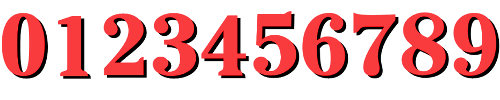
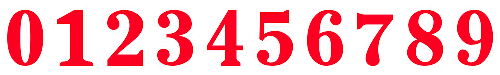
ダメージ文字差し替え。回復文字を追加
Conflicts:
	VOXCHRONICLE/Classes/Lua/LuaBind.cpp
	VOXCHRONICLE/Classes/Scene/MainScene.cpp
	VOXCHRONICLE/Classes/includes/LuaBind.h
	VOXCHRONICLE/Resources/ios/Info.plist

diff --git a/VOXCHRONICLE/Classes/Scene/MainScene.cpp b/VOXCHRONICLE/Classes/Scene/MainScene.cpp
@@ -47,10 +47,10 @@ typedef enum {
   MainSceneZOrderStatus,
   MainSceneZOrderController,
   MainSceneZOrderFocus,
-  MainSceneZOrderDamageLabel,
-  MainSceneZOrderEffect,
-  MainSceneZOrderCutIn,
   MainSceneZOrderMessageWindow,
+  MainSceneZOrderEffect,
+  MainSceneZOrderDamageLabel,
+  MainSceneZOrderCutIn,
   MainSceneZOrderUI
 } MainSceneZOrder;
 
@@ -379,7 +379,7 @@ void MainScene::trackDidFinishPlaying(Music *music, Track *finishedTrack, Track 
       CCARRAY_FOREACH(enemies, obj) {
         Enemy* enemy = (Enemy*)obj;
         CCLabelAtlas* damageLabel = CCLabelAtlas::create(boost::lexical_cast<string>(((CCInteger*)damages->objectAtIndex(i))->getValue()).c_str(),
-                                                         FileUtils::getFilePath("Image/damage_number.png").c_str(), 50, 100, '0');
+                                                         FileUtils::getFilePath("Image/damage_number.png").c_str(), 50, 150, '0');
         // ダメージが0かつ、元々ダメージのない技じゃないかつ、アイテムも破壊していないとき、ヒットしていない状態にしてやる
         int damage = ((CCInteger*)damages->objectAtIndex(i))->getValue();
         sumDamage += damage;
@@ -394,6 +394,7 @@ void MainScene::trackDidFinishPlaying(Music *music, Track *finishedTrack, Track 
           SaveData::sharedData()->addCountFor(SaveDataCountKeyDefeat); // 殺しカウント++
         }
         
+<<<<<<< HEAD
         if (damageType != DamageTypeNoDamage) { // 威力のない技は表示しない
           // ダメージラベル
           damageLabel->setPosition(enemy->getPosition());
@@ -406,6 +407,20 @@ void MainScene::trackDidFinishPlaying(Music *music, Track *finishedTrack, Track 
                                                     CCRemoveFromParentAction::create(),
                                                     NULL));
         }
+=======
+        // ダメージラベル
+        CCSize size = enemy->getContentSize();
+        float scale = MAX(enemy->getCurrentScale(enemy->getRow()), 0.4);
+        damageLabel->setAnchorPoint(ccp(0.5, 0.5));
+        damageLabel->setPosition(ccpAdd(enemy->getPosition(), ccp(0, 50 * scale)));
+        damageLabel->setScale(scale);
+        this->addChild(damageLabel, MainSceneZOrderDamageLabel);
+        damageLabel->runAction(CCSequence::create(CCFadeIn::create(0.2),
+                                                  CCDelayTime::create(0.5),
+                                                  CCFadeOut::create(0.2),
+                                                  CCRemoveFromParentAction::create(),
+                                                  NULL));
+>>>>>>> f5b909d... ダメージ文字差し替え。回復文字を追加
         
         // 敵毎に効果音を鳴らす
         string fileName = "";
@@ -635,18 +650,7 @@ void MainScene::addDamageEffect() {
     queue->pop();
     int damage = info.damage;
     DamageType damageType = info.damageType;
-    // 被ダメージ表示しちゃう
-    CCLabelAtlas* damageLabel = CCLabelAtlas::create(boost::lexical_cast<string>(damage).c_str(),
-                                                     FileUtils::getFilePath("Image/damage_number.png").c_str(), 50, 100, '0');
-    CCDirector* director = CCDirector::sharedDirector();
-    damageLabel->setPosition(ccp(director->getWinSize().width / 2 + i * 50, 90 + i * 20));
-    this->addChild(damageLabel, MainSceneZOrderDamageLabel);
-    damageLabel->setScale(0);
-    damageLabel->runAction(CCSequence::create(CCScaleTo::create(0.1, 1.0),
-                                              CCDelayTime::create(0.5),
-                                              CCEaseSineIn::create(CCMoveBy::create(0.2, ccp(0, -150))),
-                                              CCRemoveFromParentAction::create(),
-                                              NULL));
+    _effectLayer->addDamageLabel(damage, i);
     sumDamage += damage;
     ++i;
     if (damageType == DamageTypeDeath) {

diff --git a/VOXCHRONICLE/Classes/Lua/LuaBind.cpp b/VOXCHRONICLE/Classes/Lua/LuaBind.cpp
@@ -1,6 +1,10 @@
 /*
 ** Lua binding: VOXCHRONICLE
+<<<<<<< HEAD
 ** Generated automatically by tolua++-1.0.92 on Sat Apr  6 17:39:42 2013.
+=======
+** Generated automatically by tolua++-1.0.92 on Fri Apr  5 02:12:43 2013.
+>>>>>>> f5b909d... ダメージ文字差し替え。回復文字を追加
 */
 
 #ifndef __cplusplus
@@ -1866,6 +1870,41 @@ static int tolua_VOXCHRONICLE_EffectLayer_addEffectOnEnemy00(lua_State* tolua_S)
 }
 #endif //#ifndef TOLUA_DISABLE
 
+/* method: addDamageLabel of class  EffectLayer */
+#ifndef TOLUA_DISABLE_tolua_VOXCHRONICLE_EffectLayer_addDamageLabel00
+static int tolua_VOXCHRONICLE_EffectLayer_addDamageLabel00(lua_State* tolua_S)
+{
+#ifndef TOLUA_RELEASE
+ tolua_Error tolua_err;
+ if (
+     !tolua_isusertype(tolua_S,1,"EffectLayer",0,&tolua_err) ||
+     !tolua_isnumber(tolua_S,2,0,&tolua_err) ||
+     !tolua_isnumber(tolua_S,3,0,&tolua_err) ||
+     !tolua_isnoobj(tolua_S,4,&tolua_err)
+ )
+  goto tolua_lerror;
+ else
+#endif
+ {
+  EffectLayer* self = (EffectLayer*)  tolua_tousertype(tolua_S,1,0);
+  int damage = ((int)  tolua_tonumber(tolua_S,2,0));
+  int offset = ((int)  tolua_tonumber(tolua_S,3,0));
+#ifndef TOLUA_RELEASE
+  if (!self) tolua_error(tolua_S,"invalid 'self' in function 'addDamageLabel'", NULL);
+#endif
+  {
+   self->addDamageLabel(damage,offset);
+  }
+ }
+ return 0;
+#ifndef TOLUA_RELEASE
+ tolua_lerror:
+ tolua_error(tolua_S,"#ferror in function 'addDamageLabel'.",&tolua_err);
+ return 0;
+#endif
+}
+#endif //#ifndef TOLUA_DISABLE
+
 /* method: getPage of class  PopupWindow */
 #ifndef TOLUA_DISABLE_tolua_VOXCHRONICLE_PopupWindow_getPage00
 static int tolua_VOXCHRONICLE_PopupWindow_getPage00(lua_State* tolua_S)
@@ -2862,6 +2901,7 @@ TOLUA_API int tolua_VOXCHRONICLE_open (lua_State* tolua_S)
    tolua_function(tolua_S,"sharedLayer",tolua_VOXCHRONICLE_EffectLayer_sharedLayer00);
    tolua_function(tolua_S,"addPopupWindow",tolua_VOXCHRONICLE_EffectLayer_addPopupWindow00);
    tolua_function(tolua_S,"addEffectOnEnemy",tolua_VOXCHRONICLE_EffectLayer_addEffectOnEnemy00);
+   tolua_function(tolua_S,"addDamageLabel",tolua_VOXCHRONICLE_EffectLayer_addDamageLabel00);
   tolua_endmodule(tolua_S);
   tolua_cclass(tolua_S,"PopupWindow","PopupWindow","CCSprite",NULL);
   tolua_beginmodule(tolua_S,"PopupWindow");

diff --git a/VOXCHRONICLE/Classes/UI/EffectLayer.cpp b/VOXCHRONICLE/Classes/UI/EffectLayer.cpp
@@ -21,6 +21,7 @@ typedef enum {
 
 typedef enum {
   EffectLayerZOrderCutin,
+  EffectLayerZOrderDamageLabel,
   EffectLayerZOrderTension,
   EffectLayerZOrderCharacter
 } EffectLayerZOrder;
@@ -261,4 +262,26 @@ void EffectLayer::addMusicInfo(Map* map, Level* level) {
                                           CCMoveTo::create(0.5f, ccp(600, 40)),
                                           CCRemoveFromParentAction::create(),
                                           NULL));
+}
+
+void EffectLayer::addDamageLabel(int damage, int offset) {
+  // 被ダメージ表示しちゃう
+  CCDirector* director = CCDirector::sharedDirector();
+  string filename = string("damage_number_hit.png");
+  if (damage < 0) {
+    damage *= -1;
+    filename = string("damage_number_cure.png");
+  }
+  CCLabelAtlas* damageLabel = CCLabelAtlas::create(boost::lexical_cast<string>(damage).c_str(),
+                                                   filename.c_str(), 50, 150, '0');
+  damageLabel->setPosition(ccp(director->getWinSize().width / 2 + 50 * offset, 90 + 20 * offset));
+  this->addChild(damageLabel, EffectLayerZOrderDamageLabel);
+  damageLabel->setScale(0);
+  damageLabel->setAnchorPoint(ccp(0.5, 0.5));
+  damageLabel->runAction(CCSequence::create(CCDelayTime::create(0.2 * offset), // 時間ずらそう
+                                            CCScaleTo::create(0.1, 1.0),
+                                            CCDelayTime::create(0.5),
+                                            CCEaseSineIn::create(CCMoveBy::create(0.2, ccp(0, -150))),
+                                            CCRemoveFromParentAction::create(),
+                                            NULL));
 }

diff --git a/VOXCHRONICLE/Classes/includes/EffectLayer.h b/VOXCHRONICLE/Classes/includes/EffectLayer.h
@@ -41,6 +41,7 @@ class EffectLayer :public CCLayer {
   void addEffectOnEnemy(Enemy* enemy, const char* prefix, int frameCount, CCRect rect);
   void addEffectOnEnemy(Enemy* enemy, const char* prefix, int frameCount, CCRect rect, float delay);
   void addMusicInfo(Map* map, Level* level);
+  void addDamageLabel(int damage, int offset);
   void addSkillEffect(Skill* skill, CCArray* targets);
   void setTensionEffect(int tension);
   void setCharacterEffect(Character* character);

diff --git a/VOXCHRONICLE/Classes/includes/LuaBind.h b/VOXCHRONICLE/Classes/includes/LuaBind.h
@@ -1,6 +1,10 @@
 /*
 ** Lua binding: VOXCHRONICLE
+<<<<<<< HEAD
 ** Generated automatically by tolua++-1.0.92 on Sat Apr  6 17:39:42 2013.
+=======
+** Generated automatically by tolua++-1.0.92 on Fri Apr  5 02:12:43 2013.
+>>>>>>> f5b909d... ダメージ文字差し替え。回復文字を追加
 */
 
 /* Exported function */
